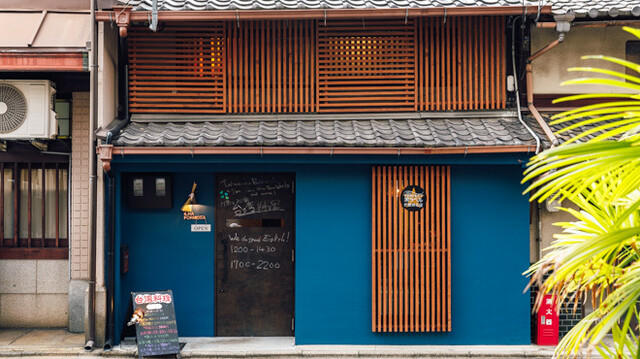
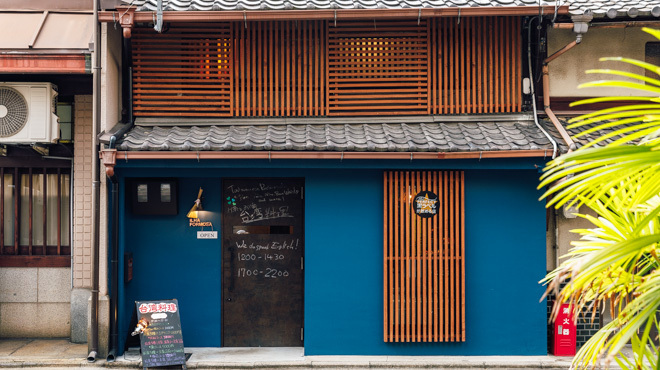
add robots and sitemap

Changed region(s): [[0.9688, 0.6741, 1.0, 0.7047], [0.875, 0.9499, 0.9062, 0.9805], [0.8125, 0.7354, 0.8438, 0.766]]

diff --git a/src/app/pages/menu.tsx b/src/app/pages/menu.tsx
@@ -262,7 +262,7 @@ export function Menu() {
               お料理
             </h1>
             <div className="w-40 h-[1px] bg-gradient-to-r from-transparent via-white/80 to-transparent mx-auto mb-8"></div>
-            <p className="font-ja text-[13px] md:text-[16px] text-white/90 tracking-[0.16em] font-light">
+            <p className="text-base md:text-lg text-white/90 tracking-[0.2em] font-light">
               台湾の味わいを、京都の感性で
             </p>
           </motion.div>
@@ -274,37 +274,39 @@ export function Menu() {
         <div className="pointer-events-none absolute bottom-40 left-0 hidden md:block w-[260px] h-[260px] rounded-full bg-[#123646]/5" />
 
         <div className="relative container mx-auto max-w-5xl">
-          {/* アンカーナビゲーション */}
-          <motion.div className="sticky top-0 z-30 mb-14 md:mb-20">
-            <nav className="flex justify-center py-3 md:py-5">
-              <div className="w-full max-w-[760px] overflow-x-auto border border-[#123646]/10 bg-white/80 px-2 md:px-3 py-2 shadow-[0_12px_34px_rgba(18,54,70,0.04)] backdrop-blur-sm">
-                <div className="flex items-center justify-between gap-2 min-w-max md:min-w-0">
-                  {menuSections.map((section) => {
-                    const isActive = activeSection === section.id;
+{/* アンカーナビゲーション */}
+<motion.div className="fixed bottom-0 left-0 right-0 z-40 md:sticky md:top-0 md:bottom-auto mb-0 md:mb-20">
+  <nav className="flex justify-center px-4 pb-4 pt-2 md:px-0 md:py-5">
+    <div className="w-full max-w-[760px] border border-[#123646]/10 bg-white/90 md:bg-white/80 px-1.5 md:px-3 py-1.5 md:py-2 shadow-[0_-8px_28px_rgba(18,54,70,0.08)] md:shadow-[0_12px_34px_rgba(18,54,70,0.04)] backdrop-blur-sm">
+      <div className="grid grid-cols-4 gap-1 md:flex md:items-center md:justify-between md:gap-2">
+        {menuSections.map((section) => {
+          const isActive = activeSection === section.id;
 
-                    return (
-                      <button
-                        key={section.id}
-                        onClick={() => scrollToSection(section.id)}
-                        className={`min-w-[92px] md:min-w-0 md:flex-1 px-4 md:px-6 py-3 transition duration-300 ${
-                          isActive
-                            ? "bg-[#123646] text-white"
-                            : "text-[#123646] hover:bg-[#123646]/8"
-                        }`}
-                      >
-                        <span className="font-en-medium block text-[9px] md:text-[11px] tracking-[0.12em]">
-                          {section.label}
-                        </span>
-                        <span className="font-ja block mt-1.5 text-[9px] md:text-[11px] tracking-[0.08em]">
-                          {section.labelJa}
-                        </span>
-                      </button>
-                    );
-                  })}
-                </div>
-              </div>
-            </nav>
-          </motion.div>
+          return (
+            <button
+              key={section.id}
+              onClick={() => scrollToSection(section.id)}
+              className={`w-full md:flex-1 px-1.5 md:px-6 py-2.5 md:py-3 transition duration-300 ${
+                isActive
+                  ? "bg-[#123646] text-white"
+                  : "text-[#123646] hover:bg-[#123646]/8"
+              }`}
+            >
+              <span className="font-en-medium block text-[7px] md:text-[11px] tracking-[0.06em] md:tracking-[0.12em] whitespace-nowrap">
+                {section.label}
+              </span>
+              <span className="font-ja block mt-1 text-[8px] md:text-[11px] tracking-[0.02em] md:tracking-[0.08em] whitespace-nowrap">
+                {section.labelJa}
+              </span>
+            </button>
+          );
+        })}
+      </div>
+    </div>
+  </nav>
+</motion.div>
+{/* SP用：下固定ナビにした分、上に余白を作る */}
+<div className="block md:hidden h-16" />
 
           {/* コースセクション */}
           <motion.section
@@ -317,7 +319,7 @@ export function Menu() {
           >
             <div className="mb-16 md:mb-20 text-center">
               <p className="font-en-medium text-[12px] md:text-[13px] tracking-[0.34em] text-[#B08A6A] mb-5">
-                COURSE
+                品味套餐
               </p>
 
               <h2 className="font-en-medium text-[34px] md:text-[46px] text-[#123646] tracking-[0.16em] font-light">
@@ -388,7 +390,7 @@ export function Menu() {
           >
             <div className="mb-16 md:mb-20 text-center">
               <p className="font-en-medium text-[12px] md:text-[13px] tracking-[0.34em] text-[#B08A6A] mb-5">
-                LUNCH
+                午間食光
               </p>
 
               <h2 className="font-en-medium text-[34px] md:text-[46px] text-[#123646] tracking-[0.16em] font-light">
@@ -469,7 +471,7 @@ export function Menu() {
           >
             <div className="mb-16 md:mb-20 text-center">
               <p className="font-en-medium text-[12px] md:text-[13px] tracking-[0.34em] text-[#B08A6A] mb-5">
-                TEA / SWEETS
+                茶與甜點
               </p>
 
               <h2 className="font-en-medium text-[34px] md:text-[46px] text-[#123646] tracking-[0.16em] font-light">
@@ -533,7 +535,7 @@ export function Menu() {
           >
             <div className="mb-16 md:mb-20 text-center">
               <p className="font-en-medium text-[12px] md:text-[13px] tracking-[0.34em] text-[#B08A6A] mb-5">
-                DRINK
+                美酒佳飲
               </p>
 
               <h2 className="font-en-medium text-[34px] md:text-[46px] text-[#123646] tracking-[0.16em] font-light">

diff --git a/src/app/pages/NewsDetail.tsx b/src/app/pages/NewsDetail.tsx
@@ -228,20 +228,8 @@ export function NewsDetail() {
                   whileInView={{ opacity: 1, y: 0 }}
                   transition={{ duration: 0.75 }}
                   viewport={{ once: true }}
-                  className="mt-16 md:mt-20 bg-white/55 border border-[#123646]/8 px-5 py-10 md:px-10 md:py-12"
+                  className="mt-16 md:mt-20 pt-12 md:pt-16 border-t border-[#123646]/35"
                 >
-                  <div className="text-center mb-10 md:mb-12">
-                    <p className="font-en-medium text-[12px] md:text-[13px] tracking-[0.34em] text-[#B08A6A] mb-5">
-                      OTHER NEWS
-                    </p>
-
-                    <h3 className="font-ja text-[24px] md:text-[30px] tracking-[0.12em] text-[#123646] font-light">
-                      その他のお知らせ
-                    </h3>
-
-                    <div className="w-16 h-[1px] bg-[#123646]/25 mx-auto mt-7" />
-                  </div>
-
                   <div className="grid grid-cols-1 md:grid-cols-2 xl:grid-cols-3 gap-6 md:gap-8">
                     {otherNews.map((item, index) => {
                       const { year, month, day } = formatDateParts(item.date);

diff --git a/index.html b/index.html
@@ -3,7 +3,24 @@
   <head>
     <meta charset="UTF-8" />
     <meta name="viewport" content="width=device-width, initial-scale=1.0" />
-    <title>ILHA FORMOSA</title>
+
+    <title>ILHA FORMOSA｜京都・四条烏丸の台湾料理店</title>
+
+    <meta
+      name="description"
+      content="ILHA FORMOSAは、京都・四条烏丸エリアにある台湾料理店です。台湾茶や薬膳、香り豊かな料理を、落ち着いた空間でお楽しみいただけます。"
+    />
+
+    <meta property="og:title" content="ILHA FORMOSA｜京都・四条烏丸の台湾料理店" />
+    <meta
+      property="og:description"
+      content="京都・四条烏丸エリアで台湾料理を楽しめるILHA FORMOSA。台湾茶や薬膳、香り豊かな料理を落ち着いた空間で。"
+    />
+    <meta property="og:type" content="website" />
+    <meta property="og:url" content="https://www.ilhaformosakyoto.com/" />
+    <meta property="og:site_name" content="ILHA FORMOSA" />
+
+    <link rel="canonical" href="https://www.ilhaformosakyoto.com/" />
   </head>
   <body>
     <div id="root"></div>
